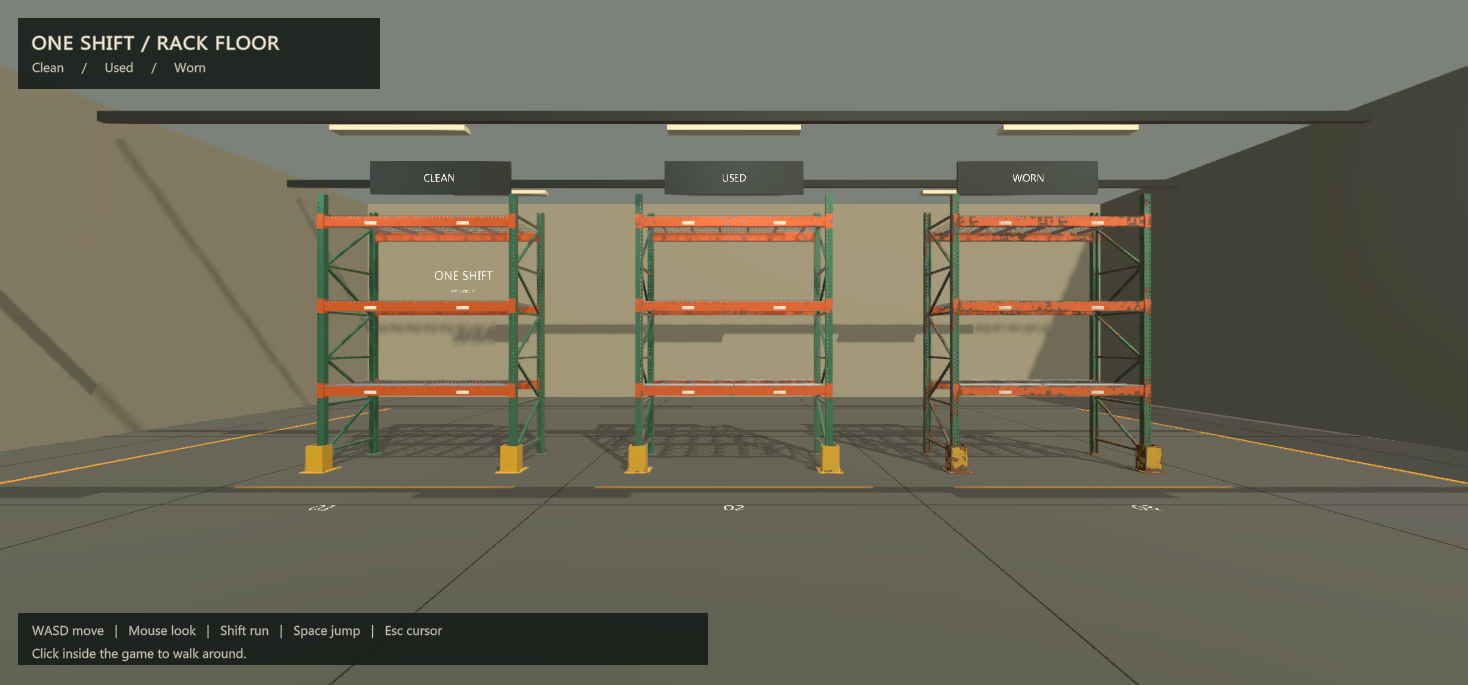
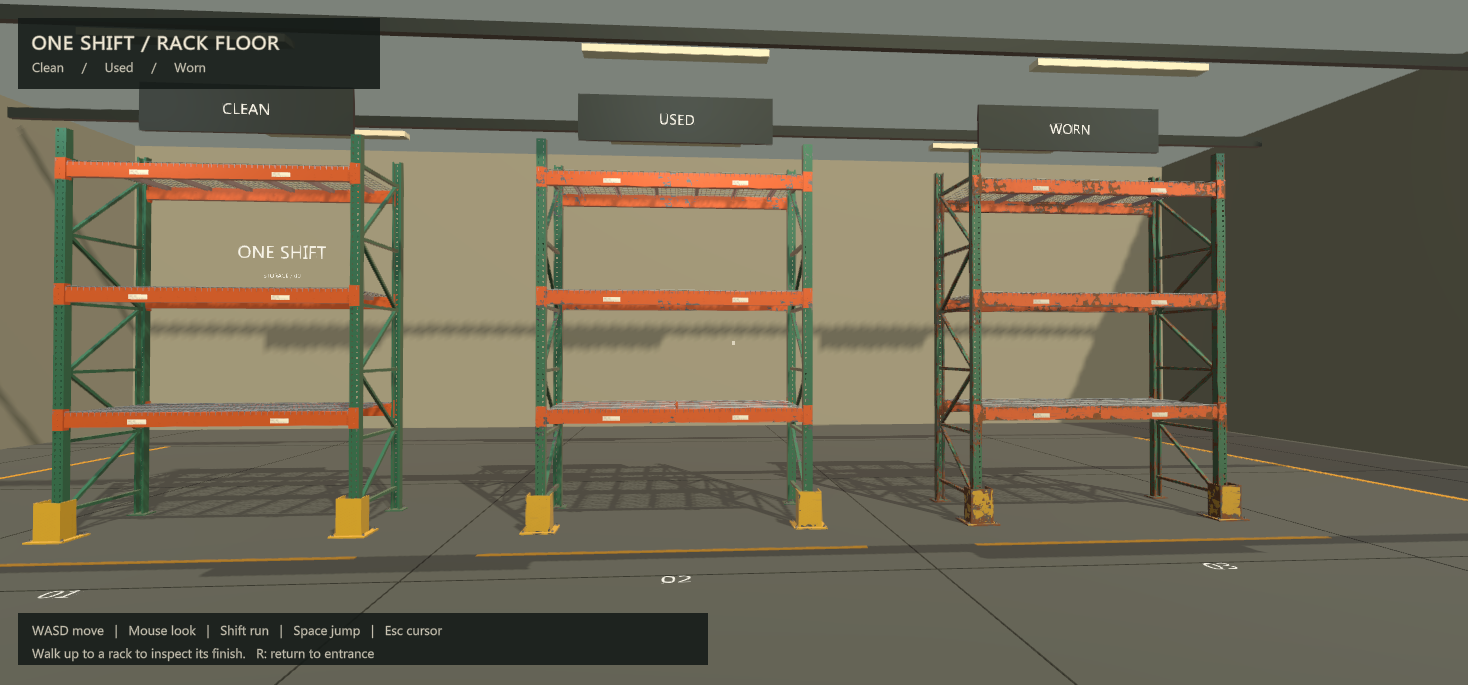
Calibrate player proportions and perspective against warehouse racks

diff --git a/unity/OneShiftRackLab/Assets/RackLab/Editor/RackLabBuilder.cs b/unity/OneShiftRackLab/Assets/RackLab/Editor/RackLabBuilder.cs
@@ -128,22 +128,23 @@ namespace OneShift.RackLab
             var player=new GameObject("Player");
             player.transform.position=new Vector3(0,.04f,-5.5f);
             var controller=player.AddComponent<CharacterController>();
-            controller.height=1.8f;controller.radius=.28f;controller.center=new Vector3(0,.9f,0);
+            controller.height=RackWalkController.StandingHeight;controller.radius=RackWalkController.BodyRadius;
+            controller.center=Vector3.up*(RackWalkController.StandingHeight*.5f);
             controller.stepOffset=.25f;controller.skinWidth=.025f;controller.slopeLimit=45;
             var eyes=new GameObject("Player eyes");eyes.tag="MainCamera";
-            eyes.transform.SetParent(player.transform,false);eyes.transform.localPosition=new Vector3(0,1.67f,0);
-            var camera=eyes.AddComponent<Camera>();camera.fieldOfView=66;camera.nearClipPlane=.04f;camera.farClipPlane=100;
+            eyes.transform.SetParent(player.transform,false);eyes.transform.localPosition=Vector3.up*RackWalkController.StandingEyeHeight;
+            var camera=eyes.AddComponent<Camera>();camera.nearClipPlane=.04f;camera.farClipPlane=100;
             camera.clearFlags=CameraClearFlags.SolidColor;camera.backgroundColor=RenderSettings.fogColor;
             camera.allowHDR=true;eyes.AddComponent<AudioListener>();
             var cameraData=eyes.AddComponent<UnityEngine.Rendering.Universal.UniversalAdditionalCameraData>();
             cameraData.renderPostProcessing=true;
             cameraData.antialiasing=UnityEngine.Rendering.Universal.AntialiasingMode.SubpixelMorphologicalAntiAliasing;
             cameraData.antialiasingQuality=UnityEngine.Rendering.Universal.AntialiasingQuality.High;
-            player.AddComponent<RackWalkController>().eyes=camera;
+            var walking=player.AddComponent<RackWalkController>();walking.eyes=camera;walking.RefreshPerspective();
             var body=GameObject.CreatePrimitive(PrimitiveType.Capsule);body.name="Player shadow";
             UnityEngine.Object.DestroyImmediate(body.GetComponent<Collider>());
-            body.transform.SetParent(player.transform,false);body.transform.localPosition=new Vector3(0,.9f,0);
-            body.transform.localScale=new Vector3(.5f,.85f,.5f);
+            body.transform.SetParent(player.transform,false);body.transform.localPosition=controller.center;
+            body.transform.localScale=new Vector3(controller.radius*2,controller.height*.5f,controller.radius*2);
             body.GetComponent<Renderer>().shadowCastingMode=ShadowCastingMode.ShadowsOnly;
             body.GetComponent<Renderer>().sharedMaterial=frame;
             var probeObj=new GameObject("Warehouse reflections");

diff --git a/unity/OneShiftRackLab/Assets/RackLab/Scripts/RackWalkController.cs b/unity/OneShiftRackLab/Assets/RackLab/Scripts/RackWalkController.cs
@@ -5,10 +5,14 @@ namespace OneShift.RackLab
     [RequireComponent(typeof(CharacterController))]
     public sealed class RackWalkController : MonoBehaviour
     {
+        public const float StandingHeight = 1.78f;
+        public const float StandingEyeHeight = 1.65f;
+        public const float BodyRadius = .25f;
+        public const float HorizontalFieldOfView = 90f;
         public Camera eyes;
         public Vector3 spawnPosition;
-        public float walkSpeed = 3.2f;
-        public float runSpeed = 5.5f;
+        public float walkSpeed = 1.5f;
+        public float runSpeed = 4.2f;
         public float sensitivity = 1.8f;
         CharacterController motor;
         float pitch, verticalSpeed;
@@ -22,7 +26,16 @@ namespace OneShift.RackLab
             motor = GetComponent<CharacterController>();
             spawnPosition = transform.position;
             Application.targetFrameRate = 120;
+            RefreshPerspective();
         }
+
+        public void RefreshPerspective()
+        {
+            // Keep wide Editor windows from stretching the view and making the room feel tiny.
+            eyes.fieldOfView = Mathf.Min(65f, Camera.HorizontalToVerticalFieldOfView(HorizontalFieldOfView, eyes.aspect));
+        }
+
+        void LateUpdate() { RefreshPerspective(); }
 
         void OnDisable() { Capture(false); }
         void OnApplicationFocus(bool focus)

diff --git a/unity/OneShiftRackLab/README.md b/unity/OneShiftRackLab/README.md
@@ -14,6 +14,11 @@ In the Game view's resolution menu, leave **Low Resolution Aspect Ratios** off
 and keep the zoom at 1x for a sharp preview. The camera renders at full resolution
 with 4x MSAA and high-quality SMAA to smooth fine rack details.
 
+One Unity unit is one metre. The player is 1.78 m tall (about 5 feet 10 inches),
+with eyes 1.65 m above the feet, beside 3.66 m (12-foot) racks. The view keeps a
+90-degree horizontal field of view on wide windows, with vertical field of view
+capped at 65 degrees on taller windows. Walking is 1.5 m/s and running is 4.2 m/s.
+
 The scene places Clean, Used and Worn racks next to one another. The wear is
 cosmetic: faded coating, chipped edges, exposed steel, rust and contact scratches.
 The three materials share the same model, a 512-pixel noise texture and a
